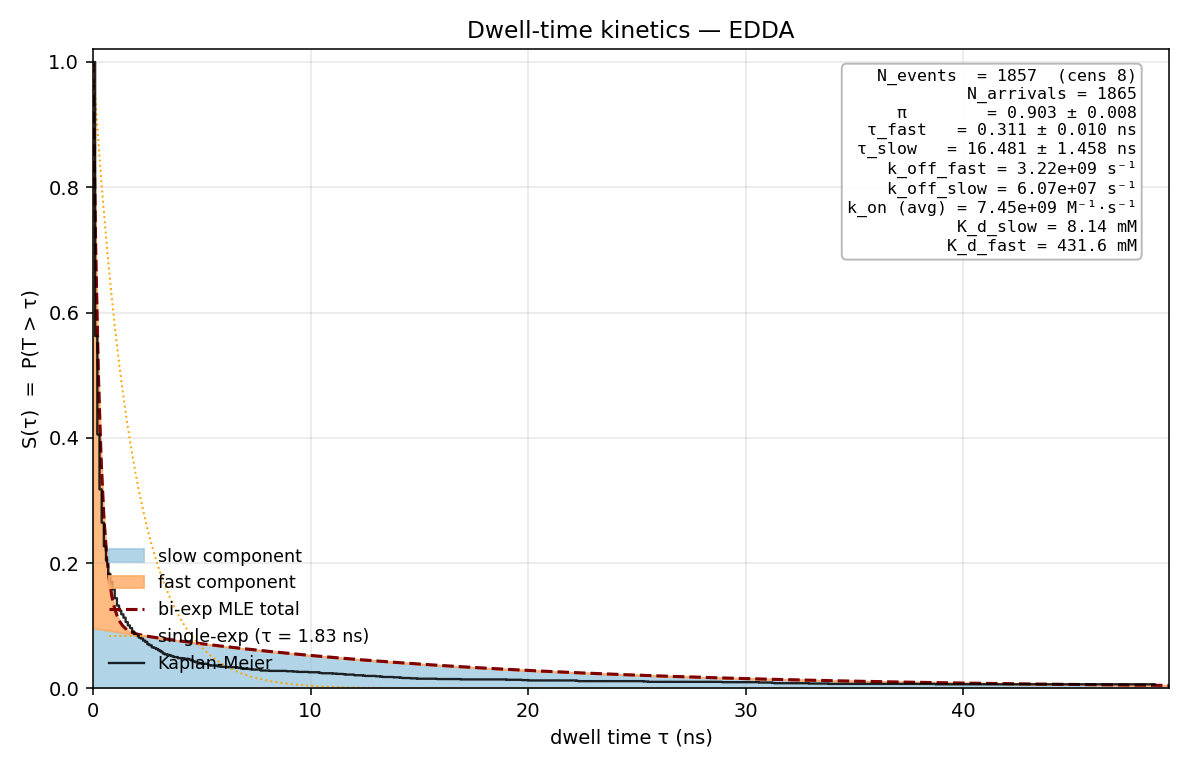
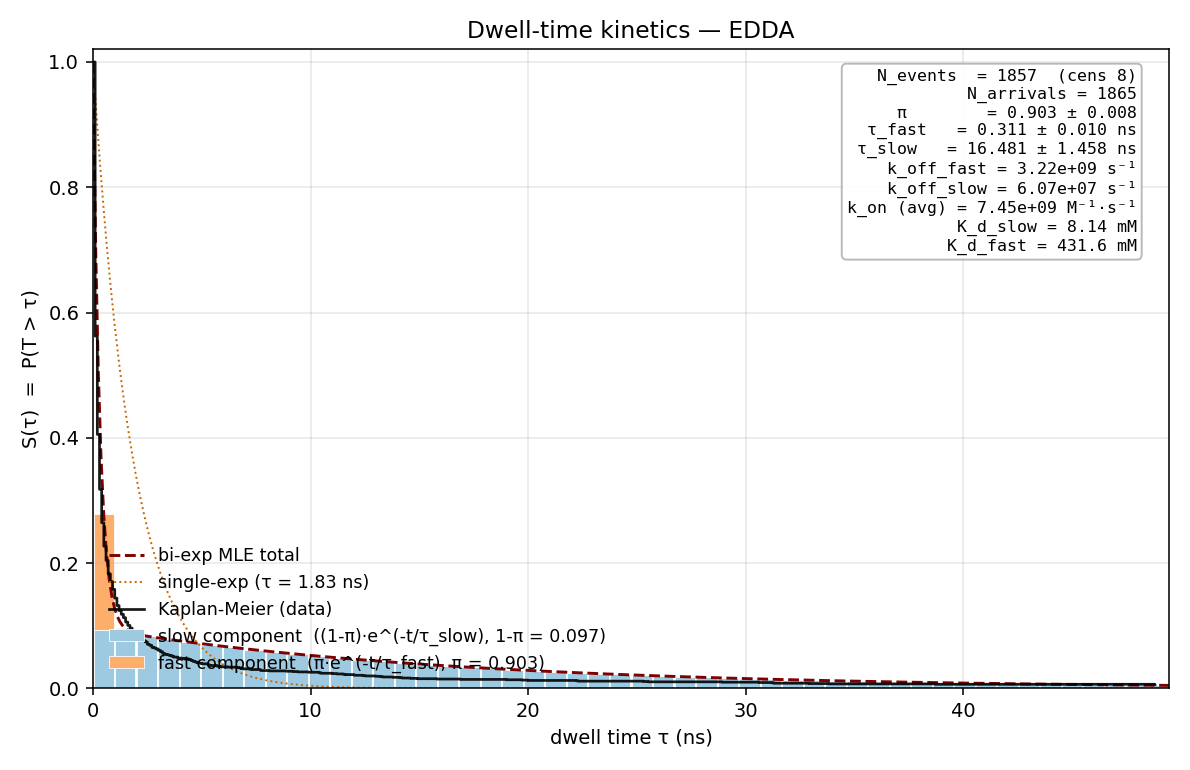
refactor: Method 2 plot — stacked bars at each tau, matching Method 1
Replace fill_between filled regions with vertical stacked bars at 50
discrete tau values (every ~1 ns), mirroring the residence-time
pipeline's `fit_chain_X.svg` visual style.

The y-axis (S(τ) survival) and overlaid curves (bi-exp dashed,
single-exp dotted, Kaplan-Meier step) are unchanged. Only the
component decomposition rendering changed: bars instead of smooth
fills.

Methods note image updated to use the new bar-style plot.

Changed region(s): [[0.0622, 0.4364, 0.8395, 0.9039], [0.9328, 0.8727, 0.9639, 0.9039]]

diff --git a/scripts_kinetics/dwell_time_kinetics.py b/scripts_kinetics/dwell_time_kinetics.py
@@ -795,35 +795,46 @@ def make_plots(per_buffer_data, plot_dir):
         pi, t1, t2 = b_fit["pi"], b_fit["tau_fast"], b_fit["tau_slow"]
         # Plot range: focus on the slow component up to ~3·τ_slow
         t_max = min(max(3 * t2, 5 * t1), float(np.max(full)) * 1.05)
-        t_grid = np.linspace(0, t_max, 400)
 
-        fast_S = pi * np.exp(-t_grid / t1)
-        slow_S = (1 - pi) * np.exp(-t_grid / t2)
+        # Discrete bar positions (matches Method 1's `fit_chain_X.svg` look:
+        # stacked vertical bars at each tau, fit curves overlaid).
+        n_bars = 50
+        t_bars = np.linspace(0, t_max, n_bars + 1)
+        t_centers = 0.5 * (t_bars[:-1] + t_bars[1:])
+        bar_w = (t_bars[1] - t_bars[0]) * 0.95
+
+        fast_S = pi * np.exp(-t_centers / t1)
+        slow_S = (1 - pi) * np.exp(-t_centers / t2)
         total_S = fast_S + slow_S
+
+        # Empirical Kaplan-Meier (computed once, used both for bars and step)
+        t_e, s_e = empirical_survival(full, cens)
 
         fig, ax = plt.subplots(figsize=(8.5, 5.5))
 
-        # Stacked components (slow on bottom, fast on top — mirrors fit_chain_X)
-        ax.fill_between(t_grid, 0, slow_S,
-                        color="#9ecae1", alpha=0.8, label="slow component")
-        ax.fill_between(t_grid, slow_S, total_S,
-                        color="#fdae6b", alpha=0.85, label="fast component")
+        # Stacked bars: slow on bottom, fast on top — analogous to Method 1's
+        # constant + slow + fast stacking, but with no constant term here.
+        ax.bar(t_centers, slow_S, width=bar_w, align="center",
+               color="#9ecae1", edgecolor="white", lw=0.4,
+               label=f"slow component  ((1-π)·e^(-t/τ_slow), 1-π = {1-pi:.3f})")
+        ax.bar(t_centers, fast_S, width=bar_w, align="center", bottom=slow_S,
+               color="#fdae6b", edgecolor="white", lw=0.4,
+               label=f"fast component  (π·e^(-t/τ_fast), π = {pi:.3f})")
 
-        # Bi-exp envelope on top
-        ax.plot(t_grid, total_S, color="#7f0000", lw=1.6, ls="--",
-                label="bi-exp MLE total")
-
-        # Single-exp comparison
+        # Bi-exp envelope and single-exp reference, on top of bars
+        t_grid = np.linspace(0, t_max, 400)
+        ax.plot(t_grid,
+                pi * np.exp(-t_grid / t1) + (1 - pi) * np.exp(-t_grid / t2),
+                color="#7f0000", lw=1.5, ls="--", label="bi-exp MLE total")
         if s_fit is not None:
             ax.plot(t_grid, np.exp(-t_grid / s_fit["tau"]),
-                    color="orange", lw=1.0, ls=":",
+                    color="#cc6600", lw=1.0, ls=":",
                     label=f"single-exp (τ = {s_fit['tau']:.2f} ns)")
 
-        # Empirical Kaplan-Meier
-        t_e, s_e = empirical_survival(full, cens)
+        # Empirical Kaplan-Meier on top
         mask = t_e <= t_max
         ax.step(t_e[mask], s_e[mask], where="post",
-                color="black", lw=1.2, alpha=0.85, label="Kaplan-Meier")
+                color="black", lw=1.4, alpha=0.9, label="Kaplan-Meier (data)")
 
         # Annotations: all key parameters in one text box
         kon_avg = float(np.nanmean(list(data["kon_per_chain"].values())))
